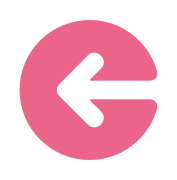
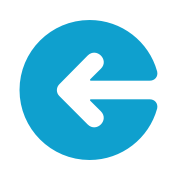
Theme improvement, added blue as a secondary color

diff --git a/common.css b/common.css
@@ -1,3 +1,6 @@
+/* **********************************************************************/
+/* Mods/overrides of skeleton.css */
+
 html, body {
     font-family: 'Lato', sans-serif;
     padding: 0;
@@ -10,7 +13,7 @@ code {
     font-size: 1.1em;
 }
 
-
+/* **********************************************************************/
 /* Helper classes */
 
 .boxshadow {
@@ -27,8 +30,7 @@ code {
         filter: drop-shadow(3px 3px 3px rgba(0,0,0,0.4));
     }
 
-
-
+/* **********************************************************************/
 /* Specific DOM classes */
 
 .wrap {
@@ -38,7 +40,7 @@ code {
 .header {
     padding: .5em .75em;
     text-align: left;
-    font-family: 'Permanent Marker', cursive;
+    font-family: 'Permanent Marker', sans-serif;
     font-size: 1.5em;
     line-height: 1;
     color: #272727;
@@ -69,13 +71,12 @@ code {
             background-repeat: no-repeat;
         }
 
-
 .help_icon {
     position: fixed;
     bottom: 1em;
     right: 1em;
-    width: 50px;
-    height: 50px;
+    width: 3em;
+    height: 3em;
     background-image: url("help.png");
     background-position: 50% 50%;
     background-size: contain;
@@ -86,7 +87,6 @@ code {
         margin-top: 1em;
         margin-bottom: 1em;
     }
-
 
 .home_welcome {}
 .landing_hero {
@@ -104,24 +104,16 @@ code {
     margin-top: -6em;
 }
     .home_button {
-        background-color: #fff !important;
-    }
-    .home_form .home_button, button {
-        border: none !important;
+        background-color: #0FA0CE !important;
+        border: 6px solid #fff !important;
         line-height: inherit !important;
-        font-family: 'Permanent Marker', cursive !important;
+        font-family: 'Permanent Marker', sans-serif !important;
         font-size: 1.3em !important;
-        color: #333 !important;
-        padding: .4em 1em !important;
+        color: #fff !important;
+        padding: .2em .6em !important;
+        border-radius: 2em;
         height: auto;
     }
-
-label {
-    color: white;
-}
-
-
-
 
 .bgwhirl {
     background-color: #EB658A;
@@ -185,13 +177,10 @@ label {
                 font-size: 1.1em;
                 display: inline-flex;
                 align-items: center;
-                background-color: #fafafa;
+                background-color: #fff;
                 border-radius: 1em;
                 text-decoration: none;
             }
-                .twitterlink:hover {
-                    background-color: #fff;
-                }
                 .twitterlink .twittericon {
                     display: inline-block;
                     width: 1.5em;
@@ -208,8 +197,9 @@ label {
                     padding: 0 .6em 0 .4em;
                 }
 
+/* **********************************************************************/
+/* Media styles */
 
-/* Larger than ~tablet */
 @media (min-width: 850px) {
     .header {
         font-size: 2.5em;

diff --git a/index.html b/index.html
@@ -238,28 +238,28 @@ prevQuestion = ->
     return true
 
 PARTY_PAGE = ->
-    DIV {className: 'bgwhirl'},
+    DIV { className: 'bgwhirl' },
         PAGE_HEADER()
         QUESTION()
 
 LANDING_PAGE = ->
     hash = fetch('hash')
 
-    DIV {className: 'home_welcome'},
+    DIV { className: 'home_welcome' },
         PAGE_HEADER()
-        DIV {className: 'landing_hero'}
-        DIV {className: 'home_form'},
+        DIV { className: 'landing_hero' }
+        DIV { className: 'home_form' },
             onClick: =>
                 id = generateId(10)
-                window.location.href = document.baseURI + '#' + id
+                window.location.href = document.baseURI.split('#')[0] + '#' + id
                 setHash(id)
             BUTTON
-                className: 'home_button'
+                className: 'home_button boxshadow'
                 "create a party →"
 
 HELP_ICON = ->
     SPAN {
-            className: "help_icon",
+            className: "help_icon dropshadow",
             "data-micromodal-trigger": "modal-1",
             onClick: => MicroModal.show("modal-1")
         }
